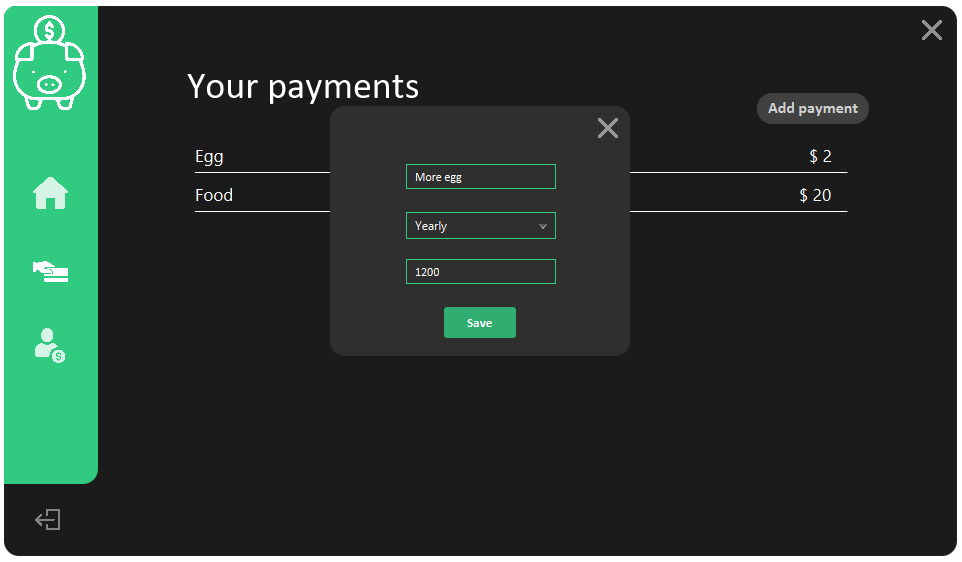
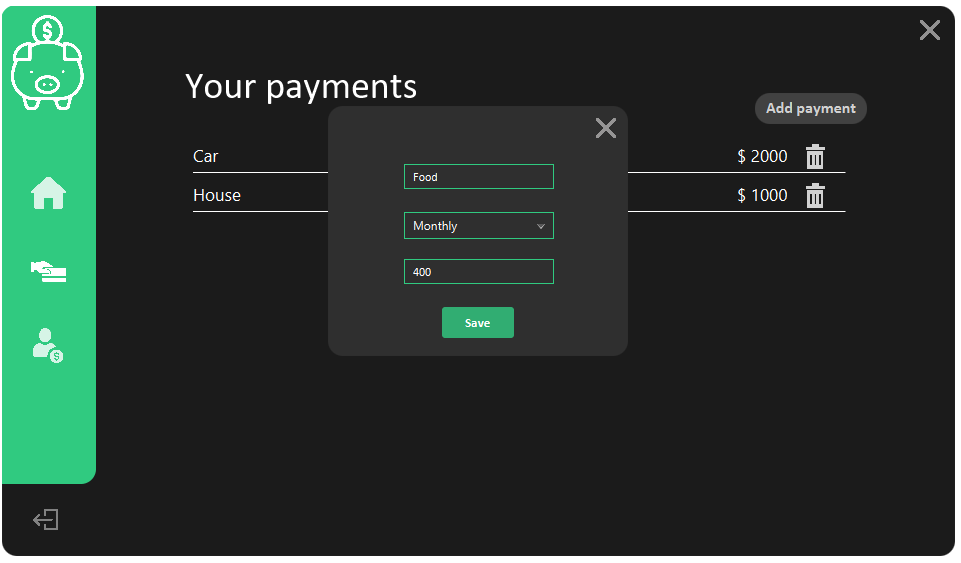
The end? It now deletes payments more properly, it disappears immediately.

diff --git a/src/PaymentCell.java b/src/PaymentCell.java
@@ -52,11 +52,7 @@ public class PaymentCell extends ListCell<Payment> {
             // deletes a payment from the user
             // and updates the server about the deletion
             deletePayment.setOnMouseClicked((e) -> {
-                deletePayment.setOnMouseClicked((p) -> {
-                    try {
-                        p.wait();
-                    } catch (InterruptedException ignored) { }
-                });
+                deletePayment.setOnMouseClicked(null);
                 Session session = MainUI.server.getSession();
                 List<Payment> payments = Controller.user.getPayments();
                 for (int i = 0; i < payments.size(); i++) {

diff --git a/src/PaymentPage.java b/src/PaymentPage.java
@@ -57,6 +57,7 @@ public class PaymentPage {
      * */
     public void refresh() {
         if(current != Controller.user.getPayments().size()){
+            current = Controller.user.getPayments().size();
             ObservableList<Payment> payments = FXCollections.observableArrayList(Controller.user.getPayments());
             listPayment.setItems(payments);
             listPayment.setCellFactory(p -> new PaymentCell());
